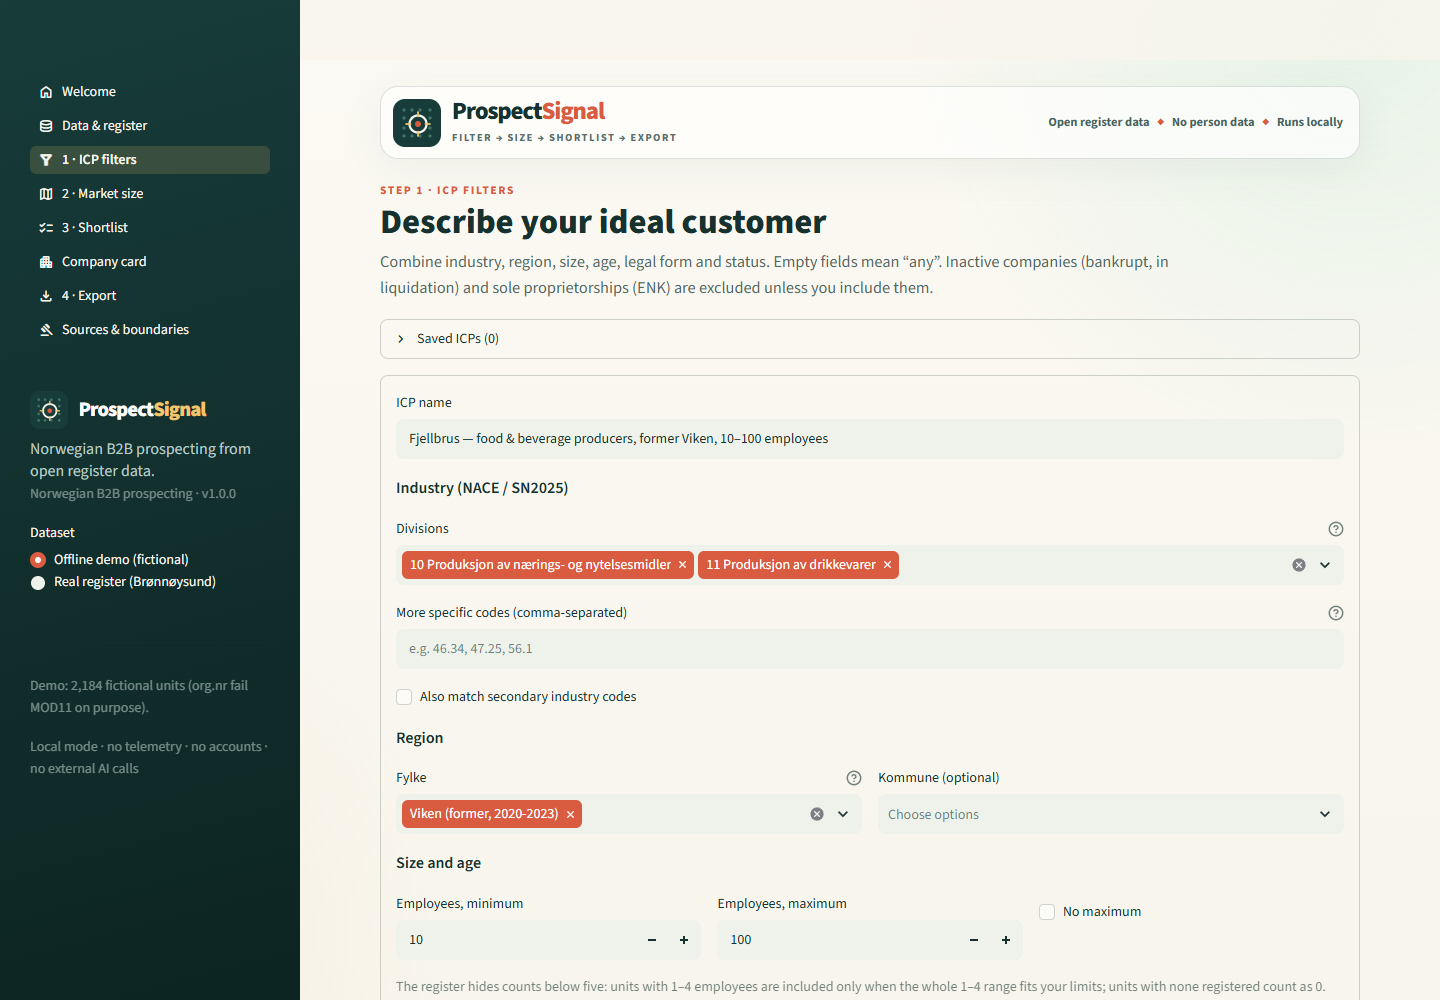
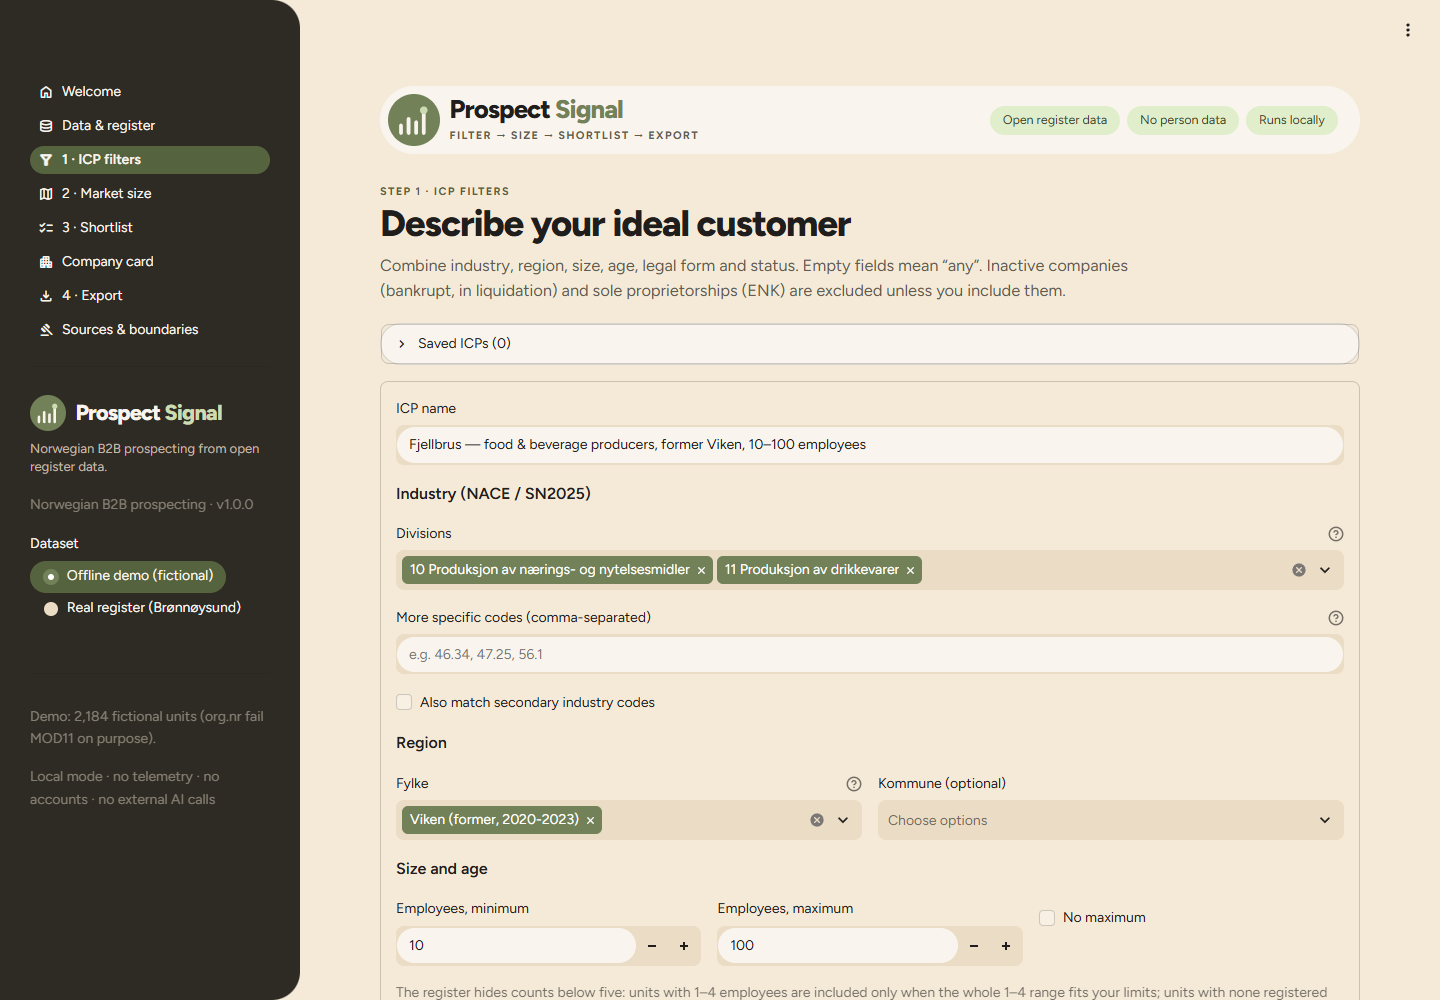
Re-take README screenshots in the Signal theme
Same six pages, file names and 1440x1000 size, on the fictional offline demo.
The screenshot script waits for the shared .sg-mast masthead instead of the old
.ps-masthead class.

diff --git a/scripts/take_screenshots.py b/scripts/take_screenshots.py
@@ -36,7 +36,7 @@ def main() -> None:
         page = browser.new_page(viewport={"width": 1440, "height": 1000}, device_scale_factor=1)
         for name, (path, scroll_to) in SHOTS.items():
             page.goto(f"{args.base}/{path}?dataset=demo")
-            page.wait_for_selector(".ps-masthead", timeout=60_000)
+            page.wait_for_selector(".sg-mast", timeout=60_000)
             page.wait_for_selector('[data-testid="stStatusWidget"]', state="detached", timeout=60_000)
             if scroll_to:
                 page.locator(scroll_to).first.scroll_into_view_if_needed()

diff --git a/CHANGELOG.md b/CHANGELOG.md
@@ -11,6 +11,7 @@ Signal brand refresh (no version bump).
 - Display name is now **Prospect Signal** (with a space) in the app, messages, attribution line, export metadata, launchers and docs. Technical identifiers (`prospectsignal`, `PROSPECTSIGNAL_*`, file slugs, HTTP user agent) are unchanged.
 - README follows the Signal README template (banner PNG, family badges, template section order, where-this-fits table, references, suite footer).
 - The architecture rule now reads "no Streamlit under `src/` except `src/prospectsignal/ui/`" (guard test, CLAUDE.md, AGENTS.md, CONTRIBUTING, PR template); a new test keeps the core package from importing the ui layer.
+- README screenshots re-taken in the Signal theme on the offline demo; `scripts/take_screenshots.py` now waits for the shared `.sg-mast` masthead.
 
 ### Added
 
